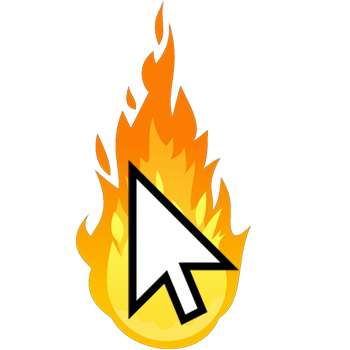
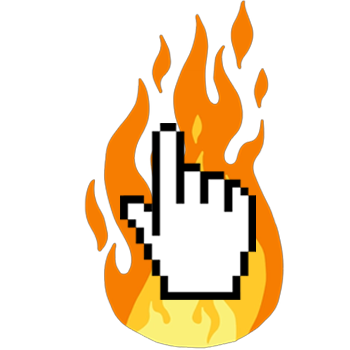
Tweaks

diff --git a/script_OG.js b/script_OG.js
@@ -2,6 +2,10 @@ const cliupg = document.querySelector(".cliupg")
 const cpsupg = document.querySelector(".cpsupg")
 const cliupg1 = document.querySelector(".cliupg1")
 const cpsupg1 = document.querySelector(".cliupg2")
+const Rainupg = document.querySelector(".Rainupg")
+const Rainupg1 = document.querySelector(".Rainupg2")
+const BW = document.querySelector(".BW")
+const BW1 = document.querySelector(".BW2")
 const Back2 = document.querySelector(".back2")
 const upgrade = document.querySelector(".three")
 const upgradebtn = document.querySelector(".upg")
@@ -122,6 +126,12 @@ let prices = {
   Clicksbonus: {
     upgcost: 100,
     Earn: 1,
+  },
+  RainBow:{
+    upgcost: 100000,
+  },
+  Bw:{
+    upgcost:200000,
   }
 }
 const img = document.querySelector(".KhinkaliMain")
@@ -497,6 +507,37 @@ upgradebtn.addEventListener("click", function () {
   upgrade.style.display = "inline"
   Logo.href = "Khinkali.png"
 })
+Rainupg.addEventListener("click",function () {
+   if (clicks >= prices["RainBow"][upgcost]) {
+    if(IsAlphaColor==true){
+      IsAlphaColor=false
+      Rainupg1.innerHTML="Mode:Off"
+    }
+    else{
+      IsAlphaColor=true
+      Rainupg1.innerHTML="Mode:On"
+      if(IsGrayscale){
+      BW1.innerHTML="Mode:Off"
+      IsGrayscale=false
+    }
+    }
+  }
+})
+BW.addEventListener("click",function () {
+     if (clicks >= prices["Bw"][upgcost]) {
+    if(IsGrayscale==true){
+      IsGrayscale=false
+      BW1.innerHTML="Mode:Off"
+    }
+    else{
+      IsGrayscale=true
+      BW1.innerHTML="Mode:On"
+      if(IsAlphaColor){
+        IsAlphaColor=false
+      Rainupg1.innerHTML="Mode:Off"}
+    }
+  }
+})
 cliupg.addEventListener("click", function () {
   if (clicks >= prices["Clicksbonus"][upgcost]) {
     prices["Clicksbonus"]["Earn"] = Number(prices["Clicksbonus"]["Earn"] * 2)
@@ -667,6 +708,12 @@ Dragonfruit.addEventListener("click", function () {
   Isowned()
   buying(DragonfruitN, "Dragonfruit")
 })
+img.addEventListener("mouseenter",function(){
+  img.classList.add("Hover2")
+})
+img.addEventListener("mouseleave",function(){
+  img.classList.remove("Hover2")
+})
 function buying(Label, Objectname) {
   if (skins[Objectname][owned]) {
     Label.innerHTML = Objectname
@@ -680,7 +727,7 @@ function buying(Label, Objectname) {
   }
 }
 function click() {
-  
+    img.classList.remove("Hover2")
   if (clicks > 999) {
     let z = new Intl.NumberFormat('en-US', {
       notation: 'compact',
@@ -755,30 +802,7 @@ function Isowned() {
 }
 function Cheat() {
   let string = input.value.replaceAll(" ", "").toUpperCase()
-  switch (string) {
-    case "ALPHACOLOR":
-      IsGrayscale = false
-      if (IsAlphaColor) {
-        IsAlphaColor = false
-      }
-      else {
-        IsAlphaColor = true
-      }
-      input.value = ""
-      break;
-    case "GRAYSCALE":
-      IsAlphaColor = false
-      if (IsGrayscale) {
-        IsGrayscale = false
-      }
-      else {
-        IsGrayscale = true
-      }
-      break;
-    default:
-      Addcheats(string)
-      break;
-  }
+  Addcheats(string)
 }
 function Addcheats(inputvalue) {
   let Str = inputvalue

diff --git a/style_OG.css b/style_OG.css
@@ -10,12 +10,13 @@
         color:black;
         font-family: Khinkali, sans-serif;
     }
-
     img {
         width: 150px;
         height: 150px;
     }
-
+img:hover {
+  cursor: pointer;
+}
     div {
         display: flex;
         justify-content: space-evenly;
@@ -28,6 +29,7 @@
         background-color: #ffffff;
         color: black;
         margin: 0;
+        cursor: url('Khinkali.png'), auto
     }
 
     button {
@@ -42,14 +44,18 @@
         align-items: center;
 
     }
-
+button:hover {
+  cursor: pointer;
+}
     .Back {
         font-size: 17px;
         font-family:Khinkali, sans-serif;
         border: 2.5px solid black;
         background-color: white;
     }
-
+.Back:hover {
+  cursor: pointer;
+}
     input {
         font-size: 15px;
         border: 2.5px solid black;
@@ -64,8 +70,8 @@
     }
 
     @keyframes p {
-        0% {}
-        50%{scale: 1.25}
+        0% {scale: 1}
+        50%{scale: 0.8}
 
         100% {
             scale: 1
@@ -79,9 +85,19 @@
 
         100% {
             scale: 1
-        }
+        }}
 
+@keyframes Hover1 {
+    0%{
     }
+    50%{
+scale: 1
+    }
+    100%{
+        scale: 1.2;
+    }
+}
+    
     h1 {
         font-size: 15px;
 
@@ -92,6 +108,9 @@
         animation: plus 300ms ease-in-out;
     }
  .plus2 {
+        animation: p-2 200ms ease-in-out;
+    }
+    .Hover2{
         animation: p-2 200ms ease-in-out;
     }
     @keyframes plus {

diff --git a/index.html b/index.html
@@ -207,13 +207,29 @@
           </button></div>
       </div>
       <div class="div1">
-        <p>Cps Bonus</p>
+        <p>Cps Bonus🔥</p>
       </div>
       <div class="div1">
         <div class="div1x"><button class="cpsupg"><img src="cursor2.png" alt="" class="Cursor2">
-            <p class="cliupg2">Price:1K</p>
+            <div class="div1"><p class="cliupg2">Price:1K</p></div>
           </button></div>
       </div>
+      <div class="div1">
+        <p>Rainbow Mode🌈</p>
+      </div>
+      <div class="div1">
+        <div class="div1x"><button class="Rainupg"><img src="cursor1.png" alt="" class="Cursor1">
+            <div class="div1"><p class="Rainupg2">Price:100K</p></div>
+          </button></div>
+      </div>
+        <div class="div1">
+        <p>B&W Mode🔲</p>
+      </div>  
+       <div class="div1">
+        <div class="div1x"><button class="BW" style="color:white;background-color: black;border-color: rgb(255, 255, 255);"><img src="cursor3.png" alt="" class="Cursor1">
+            <div class="div1"><p class="BW2" style="color: white;">Price:200K</p></div>
+          </button></div>
+      </div>     
       <p class="br"></p>
       <div class="div1"><button class="back2">Back</button></div>
       </div>
